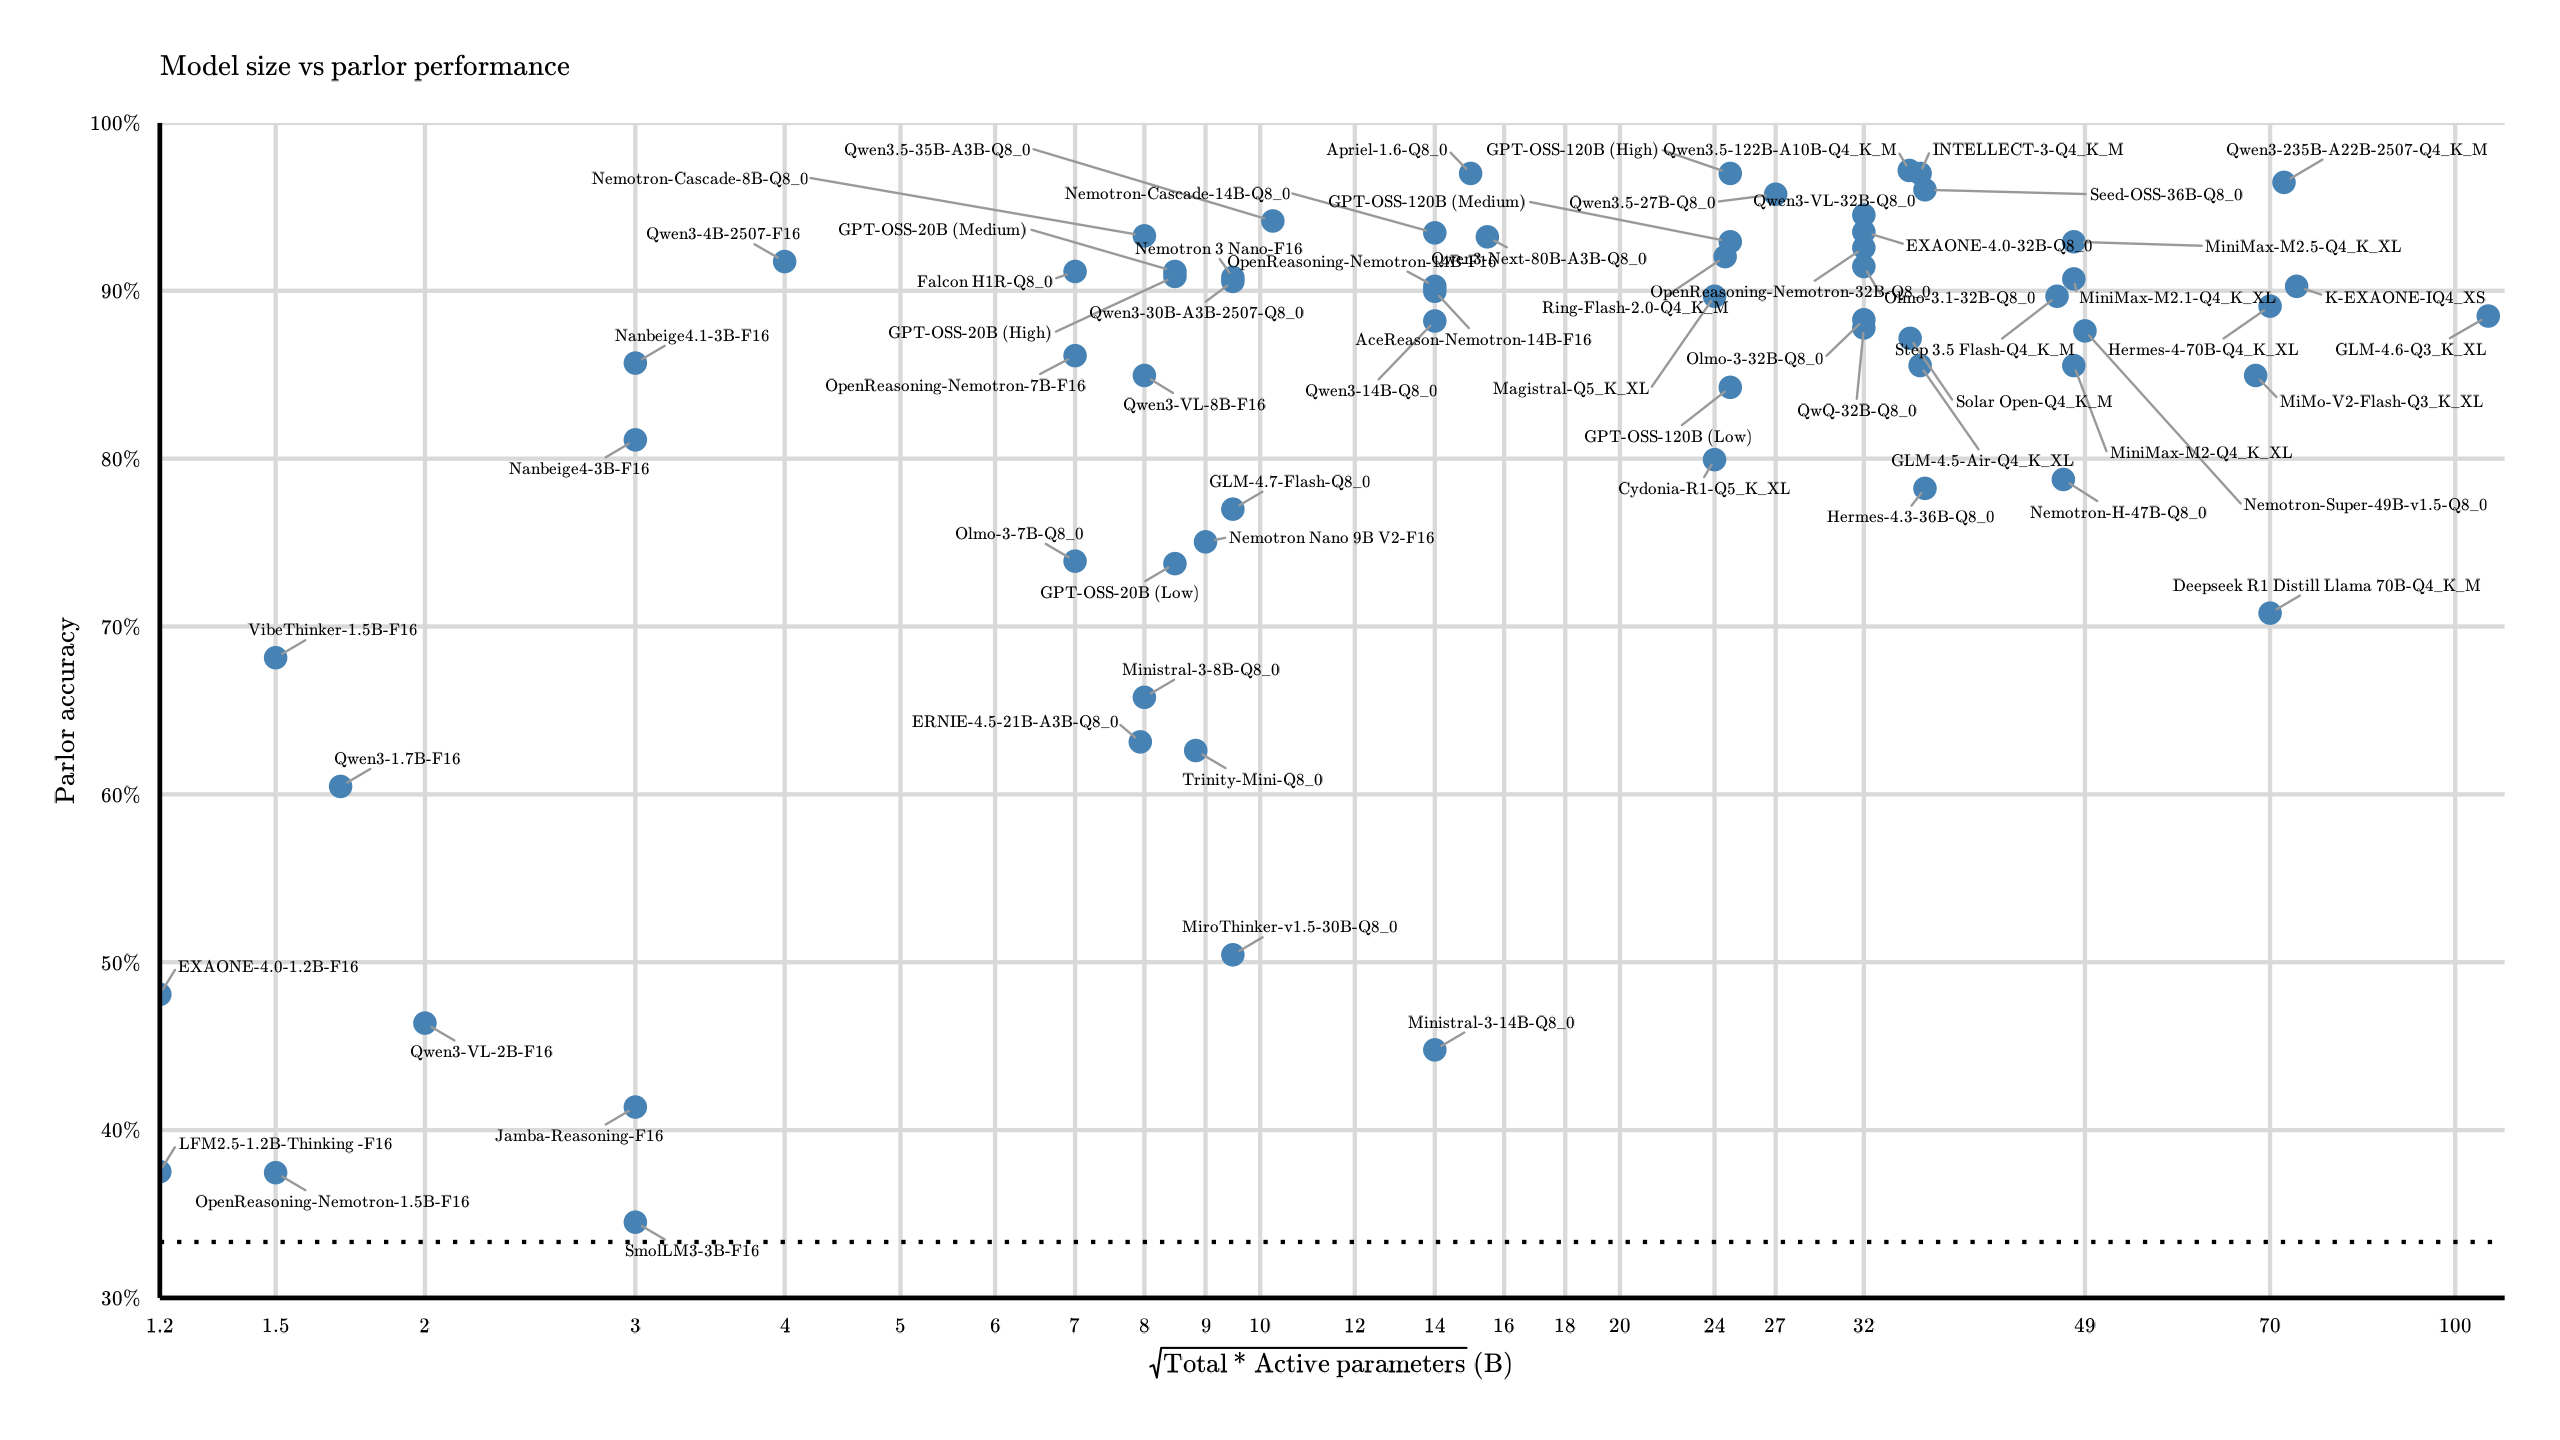
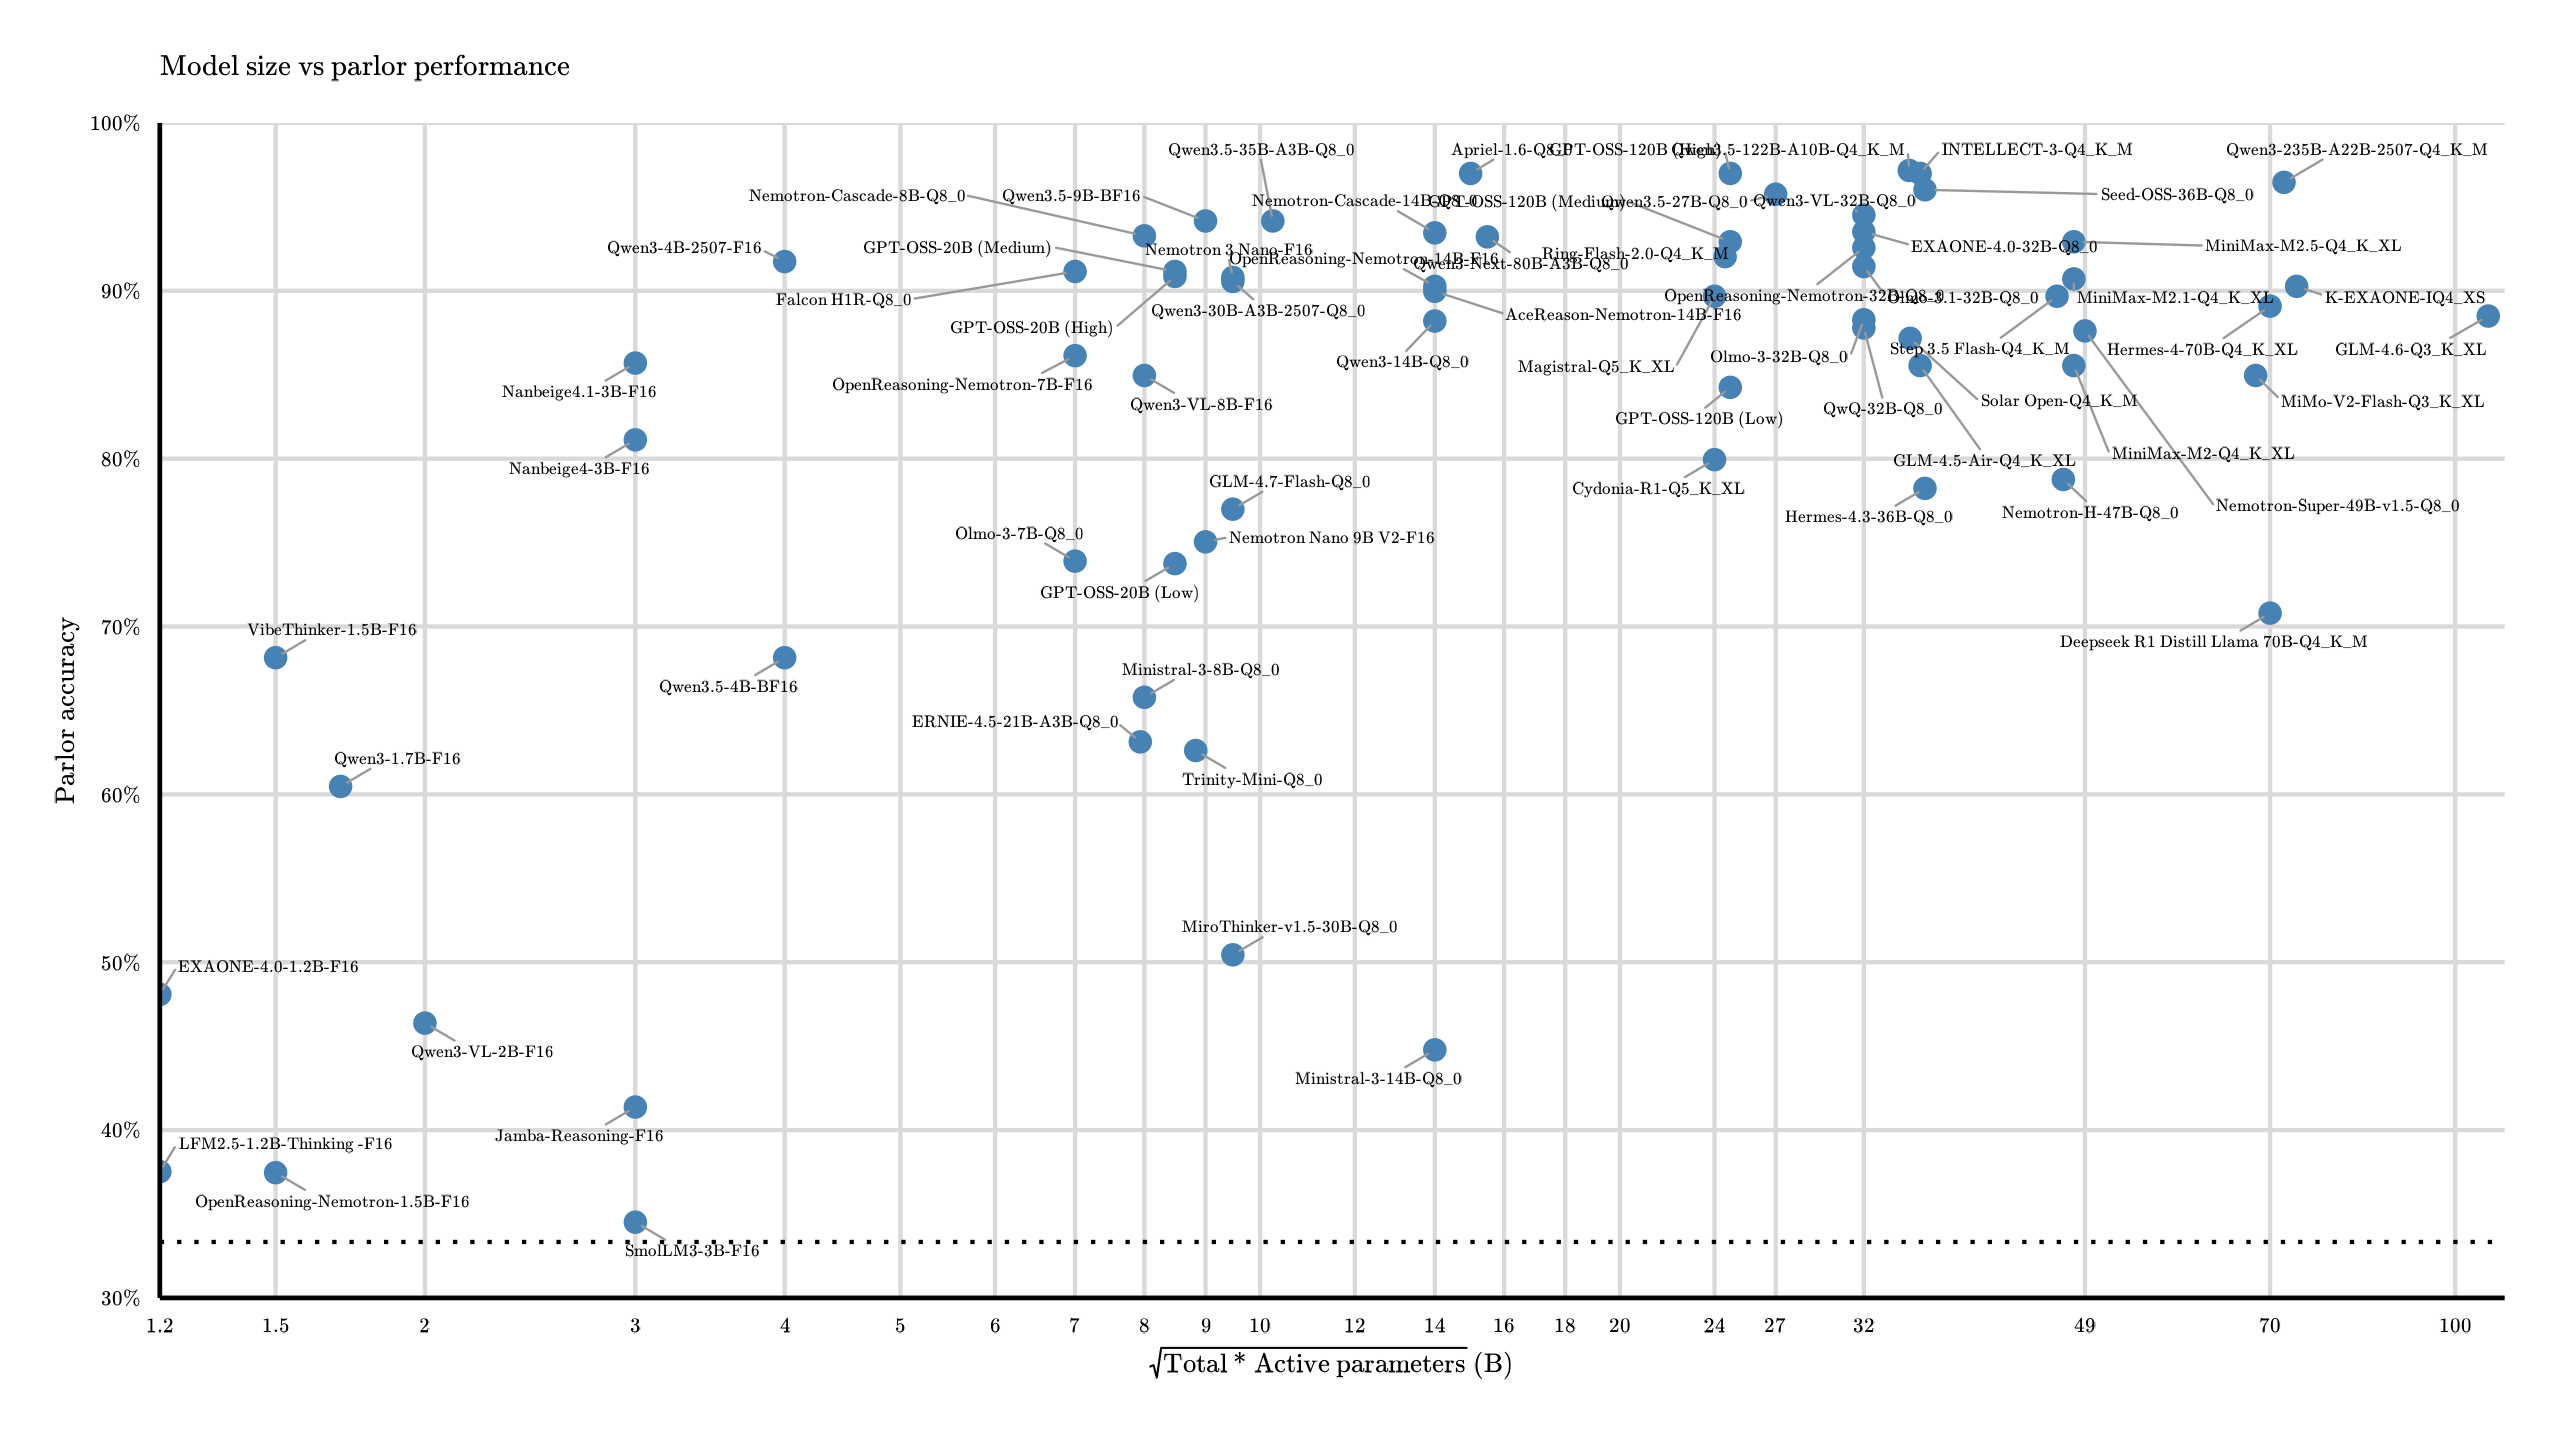
Parlor: more Qwen3.5

diff --git a/pages/parlor-reasoning.html b/pages/parlor-reasoning.html
@@ -44,7 +44,7 @@
         <div class="article-container">
             <header class="article-header">
                 <h1>Reasoning LLMs vs the Parlor Puzzle</h1>
-                <div class="meta">By BigStupidJellyfish | 2025-November-02 | Updated 2026-February-27</div>
+                <div class="meta">By BigStupidJellyfish | 2025-November-02 | Updated 2026-March-06</div>
             </header>
 <div class="article-content">
 
@@ -189,6 +189,14 @@
       <td>97.0%</td>
       <td>4793/2975 tokens</td>
     </tr>
+	<!-- <tr>
+      <td><a href="https://huggingface.co/CohereLabs/command-a-reasoning-08-2025">Command A Reasoning 08 2025</a></td>
+	  <td>111B</td>
+	  <td>Q4_K_M</td>
+      <td>113*</td>
+      <td>%</td>
+      <td>/ tokens</td>
+    </tr> -->
 	<tr>
       <td><a href="https://huggingface.co/TheDrummer/Cydonia-R1-24B-v4.1">Cydonia R1 (v4f)</a></td>
 	  <td>24B</td>
@@ -1247,6 +1255,38 @@ Batch final 3: 43317
 	  <td>93.2%</td> <!-- 316/339 -->
       <td>6781/5523 tokens</td>
     </tr>
+	<!-- <tr>
+      <td><a href="https://huggingface.co/Qwen/Qwen3.5-0.8B">Qwen3.5-0.8B</a></td>
+	  <td>0.8B</td>
+	  <td>BF16</td>
+      <td>113*5</td>
+	  <td>%</td>
+      <td>/ tokens</td>
+    </tr>
+	<tr>
+      <td><a href="https://huggingface.co/Qwen/Qwen3.5-2B">Qwen3.5-2B</a></td>
+	  <td>2B</td>
+	  <td>BF16</td>
+      <td>113*5</td>
+	  <td>%</td>
+      <td>/ tokens</td>
+    </tr> -->
+	<tr>
+      <td><a href="https://huggingface.co/Qwen/Qwen3.5-4B">Qwen3.5-4B</a></td>
+	  <td>4B</td>
+	  <td>BF16</td>
+      <td>113*10</td>
+	  <td>68.1%</td>
+      <td>10380/7644 tokens</td>
+    </tr>
+	<tr>
+      <td><a href="https://huggingface.co/Qwen/Qwen3.5-9B">Qwen3.5-9B</a></td>
+	  <td>9B</td>
+	  <td>BF16</td>
+      <td>113*5</td>
+	  <td>94.2%</td> <!-- 532/565 -->
+      <td>8241/7424 tokens</td>
+    </tr>
 	<tr>
       <td><a href="https://huggingface.co/Qwen/Qwen3.5-27B">Qwen3.5-27B</a></td>
 	  <td>27B</td>
@@ -1284,8 +1324,8 @@ Batch final 3: 43317
 	  <td></td>
 	  <td>Q4_K_XL</td>
       <td>113*5</td>
-	  <td>95.2%</td> <!-- 538/565 -->
-      <td>6084/5424 tokens</td>
+	  <td>95.6%</td> <!-- 540/565 -->
+      <td>5401/4954 tokens</td>
     </tr>
 		<tr>
       <td><a href="https://huggingface.co/Qwen/QwQ-32B">QwQ-32B</a></td>
@@ -1334,9 +1374,12 @@ Batch final 3: 43317
 	Its knowledge cutoff seems better than most models I've tested so far, which can be very nice.
 </p> -->
 <p>
-	Qwen3.5: they do quite nicely here, beating all previous Qwen models short of the 235B-A22B.
+	Qwen3.5: the larger models do quite nicely here, beating all previous Qwen models short of the 235B-A22B.
 	Token consumption was about normal; these models had almost no looping issues.
-	Curiously, <a href="https://huggingface.co/AesSedai/Qwen3.5-122B-A10B-GGUF">this Q4_K_M</a> of the 122B-A10B scored noticeably higher than the <a href="https://huggingface.co/unsloth/Qwen3.5-122B-A10B-GGUF">unsloth Q4_K_XL</a>, and set a new record on the test by 0.2%.
+	Curiously, <a href="https://huggingface.co/AesSedai/Qwen3.5-122B-A10B-GGUF">this Q4_K_M</a> of the 122B-A10B scored moderately higher than the <a href="https://huggingface.co/unsloth/Qwen3.5-122B-A10B-GGUF">(updated) unsloth Q4_K_XL</a>, and set a new record on the test by 0.2%.
+	The 9B gets itself on the pareto frontier for size efficiency, but this strength drops off with the even smaller models: the 4B regresses significantly compared to their 2507 version, with a ~68% score.
+	Even if you ignore cases where it got stuck in a loop, the 3.5 4B scored only ~83% on that subset.
+	Adjusting the model's presence penalty may move the numbers around a little, but not nearly enough to catch up.
 </p>
 <h3>Distills</h3>
 <p>
